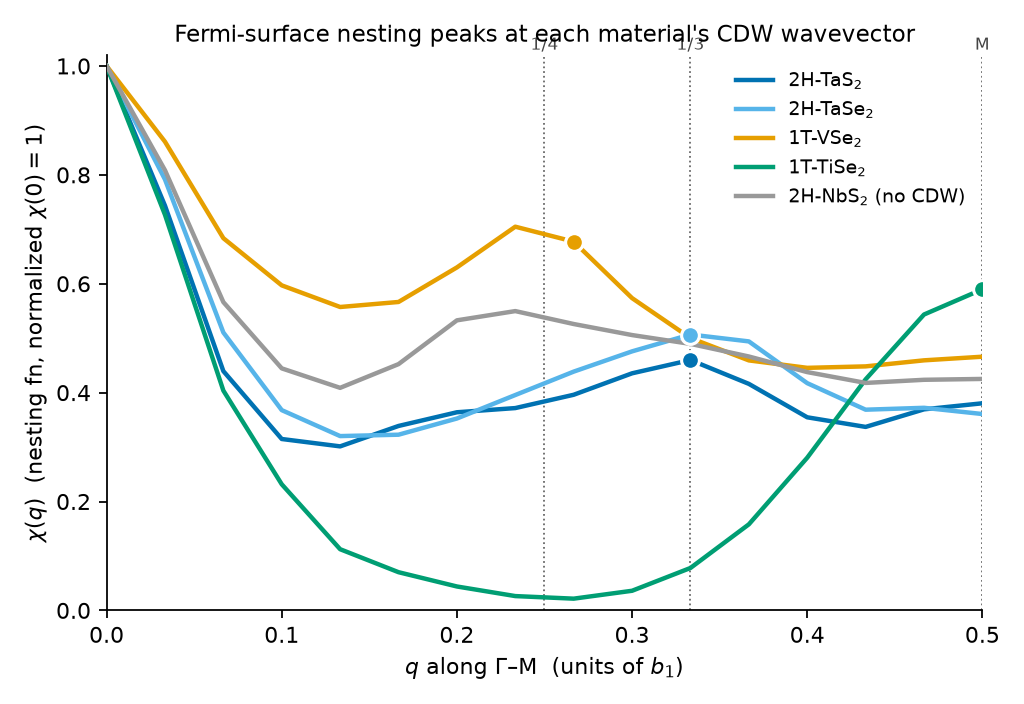
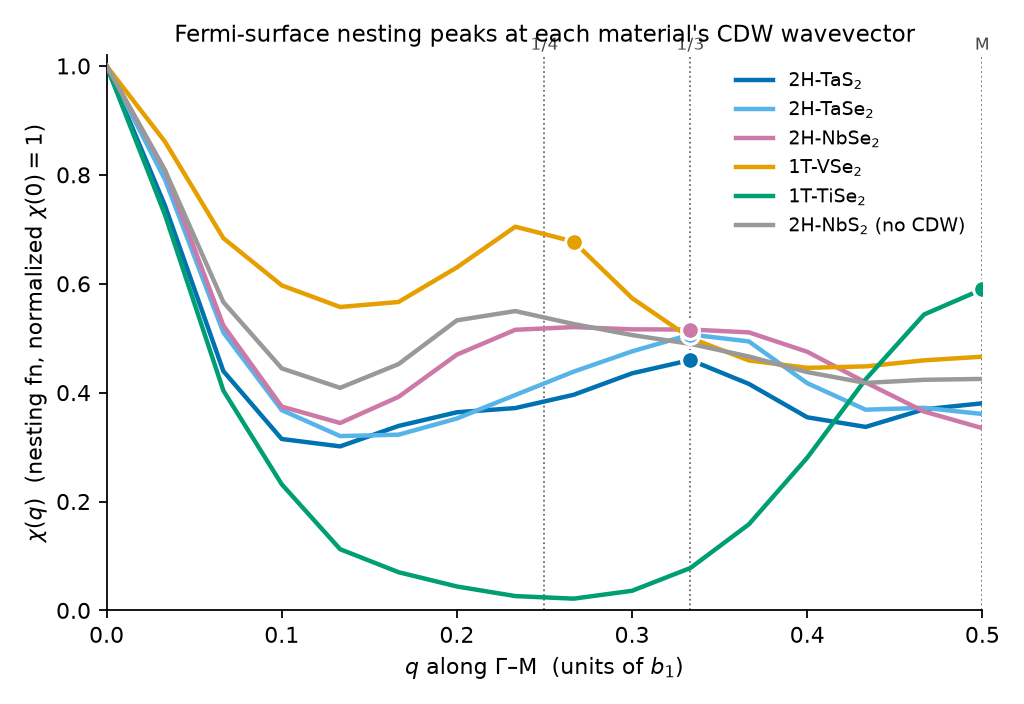
harvest: NbSe2 into family (chi(q) + E-melting) + 6x6-vs-8x8 kink (k-density confound flagged)
- NbSe2 (E)-melting: 2-param Friedel MAE 0.13 THz, robust CDW (melts slowest); into family fig
- NbSe2 chi(q): local peak 0.52 at q=1/3 (3x3 CDW); into 6-material chi(q) family fig
- 8x8 kink much lower than 6x6 (dg0.005: 15.7->6.1) BUT confounded by kpts4(eff32) vs kpts6(eff36)
  -> 6x6@kpts4 launched to disentangle supercell vs k-density

diff --git a/scripts/smearing_kink/harvest_8x8.py b/scripts/smearing_kink/harvest_8x8.py
@@ -1,0 +1,36 @@
+"""Harvest: does the Kohn kink change 6x6 -> 8x8? (supercell convergence of the
+smearing-dependent phonon spectrum). 8x8 reaches ~9.8A clean vs 6x6 ~7A."""
+import sys, csv, numpy as np
+sys.path.insert(0, "scripts/smearing_kink")
+import friedel_module as fm
+
+# existing 6x6 kink(T_el)
+k6 = {}
+for r in csv.DictReader(open("results/smearing_kink/graphene_kink_Tel_6x6.csv")):
+    k6[r["degauss_Ry"]] = float(r["kinkK"])
+DG = ["0.005","0.01","0.02","0.04","0.08"]
+DG6 = {"0.005":"0.005","0.01":"0.010","0.02":"0.020","0.04":"0.040","0.08":"0.08"}
+TEL = {d: float(d)*157888 for d in DG}
+
+print(f"{'dg':>7} {'T_el':>6} {'kink_6x6':>9} {'kink_8x8':>9} {'delta':>7}")
+rows=[]
+for d in DG:
+    ph = fm.load_ph(f"results/sc_conv/graphene_sc8_dg{d}_phonopy.yaml")
+    k8 = fm.kink_of(ph, ph.force_constants)[0]
+    k6v = k6.get(DG6[d], float("nan"))
+    rows.append((d, TEL[d], k6v, k8))
+    print(f"{d:>7} {TEL[d]:>6.0f} {k6v:>9.2f} {k8:>9.2f} {k8-k6v:>+7.2f}")
+md = np.mean([abs(r[3]-r[2]) for r in rows])
+print(f"\n=> mean |kink_8x8 - kink_6x6| = {md:.2f} cm^-1  (supercell not converged if >~model MAE 1.7)")
+
+import matplotlib; matplotlib.use("Agg"); import matplotlib.pyplot as plt
+T=[r[1] for r in rows]; a=[r[2] for r in rows]; b=[r[3] for r in rows]
+fig,ax=plt.subplots(figsize=(6.2,4.3))
+ax.plot(T,a,"-o",color="#0072B2",lw=2,ms=6,label="6×6 (clean ~7 Å)")
+ax.plot(T,b,"-s",color="#D55E00",lw=2,ms=6,label="8×8 (clean ~9.8 Å)")
+for t,x,y in zip(T,a,b): ax.plot([t,t],[x,y],color="#bbb",lw=.8,zorder=0)
+ax.set_xlabel("electronic temperature T_el (K)"); ax.set_ylabel("Kohn kink at K (cm$^{-1}$)")
+ax.set_title(f"Supercell convergence of the smearing-dependent kink\n6×6 vs 8×8 (mean Δ={md:.1f} cm⁻¹)",fontsize=10)
+ax.legend(frameon=False,fontsize=9); ax.spines[["top","right"]].set_visible(False)
+fig.tight_layout(); fig.savefig("results/smearing_kink/kink_6x6_vs_8x8.png",dpi=150)
+print("saved results/smearing_kink/kink_6x6_vs_8x8.png")

diff --git a/scripts/smearing_kink/plot_family_melting.py b/scripts/smearing_kink/plot_family_melting.py
@@ -1,0 +1,20 @@
+"""Family (E)-melting: soft-mode min-freq vs T_el for all CDW members (incl NbSe2).
+Reads results/smearing_kink/family_melting.csv."""
+import csv, numpy as np
+import matplotlib; matplotlib.use("Agg"); import matplotlib.pyplot as plt
+rows=list(csv.DictReader(open("results/smearing_kink/family_melting.csv")))
+mats={}
+for r in rows: mats.setdefault(r["material"],[]).append((float(r["T_el_K"]),float(r["minfreq_THz"])))
+OI={"NbS2":"#D55E00","2H-TaS2":"#0072B2","2H-TaSe2":"#56B4E9","1T-VSe2":"#E69F00","NbSe2":"#CC79A7"}
+LAB={"NbS2":"2H-NbS$_2$","2H-TaS2":"2H-TaS$_2$","2H-TaSe2":"2H-TaSe$_2$","1T-VSe2":"1T-VSe$_2$","NbSe2":"2H-NbSe$_2$"}
+order=["NbS2","2H-TaS2","2H-TaSe2","NbSe2","1T-VSe2"]
+fig,ax=plt.subplots(figsize=(6.6,4.5))
+for m in order:
+    if m not in mats: continue
+    pts=sorted(mats[m]); T=np.array([p[0] for p in pts])/1000; f=[p[1] for p in pts]
+    ax.plot(T,f,"-o",color=OI[m],lw=2,ms=6,mec="white",mew=1.2,label=LAB[m])
+ax.axhline(0,color="#333",lw=1,ls="--"); ax.text(4.4,.12,"CDW melted",fontsize=8,ha="right",color="#333")
+ax.set_xlabel(r"electronic temperature $T_{\rm el}$ (10$^3$ K)"); ax.set_ylabel("soft-mode min freq (THz)")
+ax.set_title("(E)-channel CDW melting across the TMD family (incl. NbSe$_2$)",fontsize=10)
+ax.legend(frameon=False,fontsize=9,loc="lower right"); ax.spines[["top","right"]].set_visible(False)
+fig.tight_layout(); fig.savefig("results/smearing_kink/family_melting_Tel.png",dpi=150); print("saved melting fig")

diff --git a/scripts/smearing_kink/plot_chiq_family.py b/scripts/smearing_kink/plot_chiq_family.py
@@ -7,11 +7,11 @@ import matplotlib; matplotlib.use("Agg")
 import matplotlib.pyplot as plt
 
 OI = {"2H-TaS2":"#0072B2","2H-TaSe2":"#56B4E9","1T-VSe2":"#E69F00",
-      "1T-TiSe2":"#009E73","NbS2":"#999999"}
-QCDW = {"2H-TaS2":1/3.,"2H-TaSe2":1/3.,"1T-VSe2":1/4.,"1T-TiSe2":1/2.,"NbS2":None}
+      "1T-TiSe2":"#009E73","NbS2":"#999999","NbSe2":"#CC79A7"}
+QCDW = {"2H-TaS2":1/3.,"2H-TaSe2":1/3.,"1T-VSe2":1/4.,"1T-TiSe2":1/2.,"NbS2":None,"NbSe2":1/3.}
 LAB = {"NbS2":"2H-NbS$_2$ (no CDW)","2H-TaS2":"2H-TaS$_2$","2H-TaSe2":"2H-TaSe$_2$",
-       "1T-VSe2":"1T-VSe$_2$","1T-TiSe2":"1T-TiSe$_2$"}
-order = ["2H-TaS2","2H-TaSe2","1T-VSe2","1T-TiSe2","NbS2"]
+       "1T-VSe2":"1T-VSe$_2$","1T-TiSe2":"1T-TiSe$_2$","NbSe2":"2H-NbSe$_2$"}
+order = ["2H-TaS2","2H-TaSe2","NbSe2","1T-VSe2","1T-TiSe2","NbS2"]
 
 fig, ax = plt.subplots(figsize=(6.4,4.4))
 data = {str(np.load(f,allow_pickle=True)["name"]): np.load(f,allow_pickle=True) for f in glob.glob("results/v100/chi_q/*/*_nesting.npz")}
